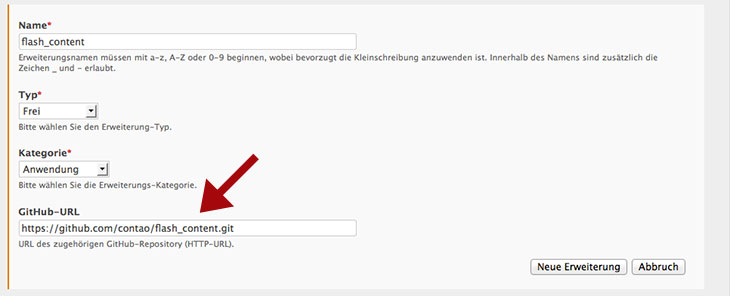
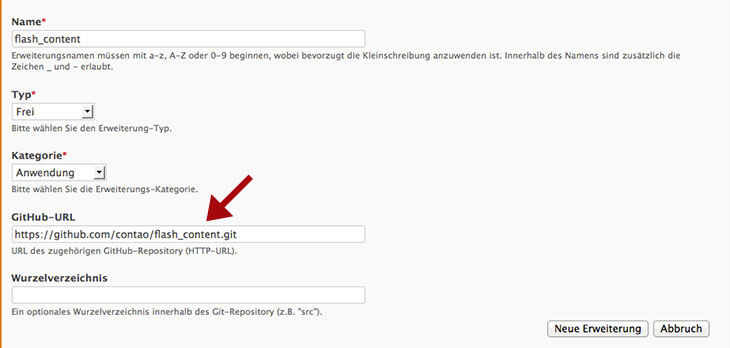
Github import update

Changed region(s): [[0.0, 0.0, 0.9342, 1.0], [0.7233, 0.8514, 0.9644, 0.973]]

diff --git a/manual/en/08-Extension-Repository.md b/manual/en/08-Extension-Repository.md
@@ -111,6 +111,10 @@ release and pushed the tag to the central GitHub repository.
 
 Enter the HTTPS URL of the GitHub repository in the settings.
 
+You can also specify the root folder name of your repository. In this case, the
+files and folders at the same level of this root folder will be ignored during
+the import.
+
 ![](https://raw.github.com/contao/docs/3.1/manual/en/images/github-import.jpg)
 
 If you select a tag, its files will be downloaded automatically and are then
